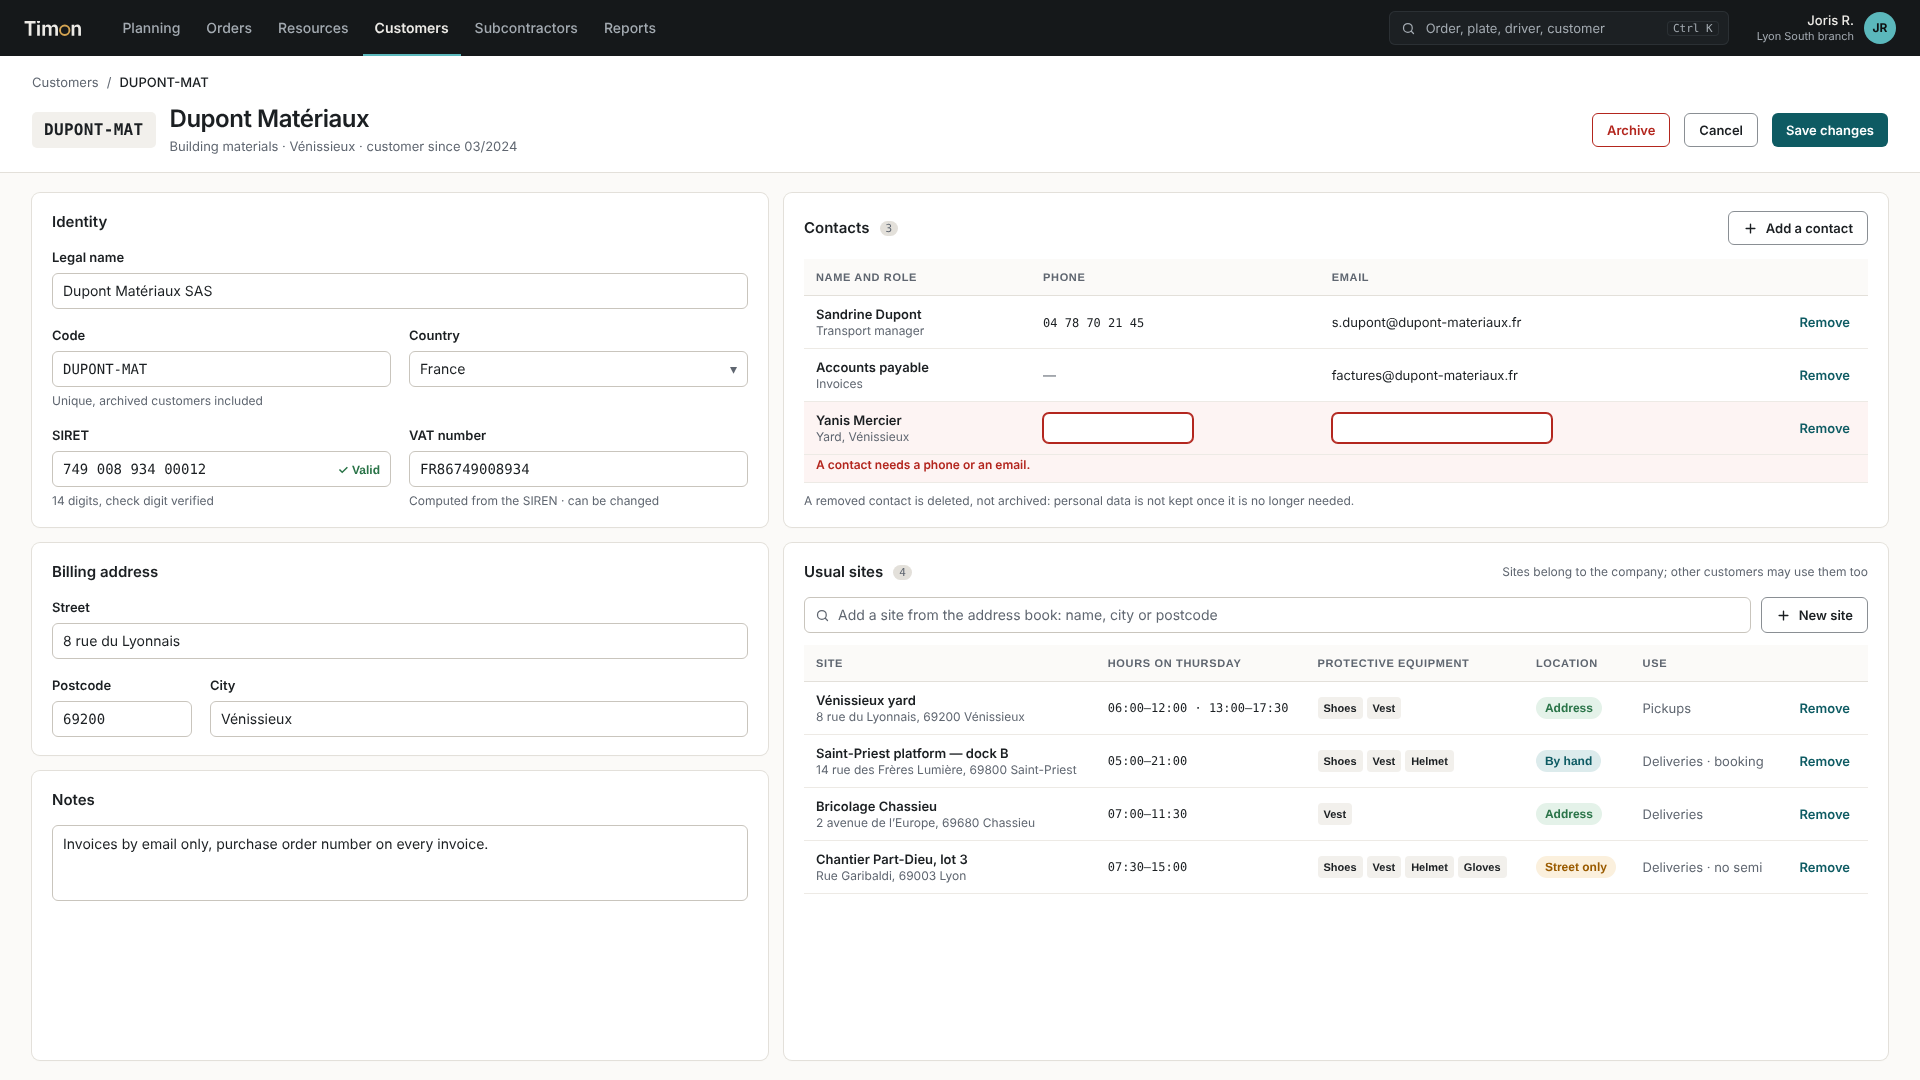
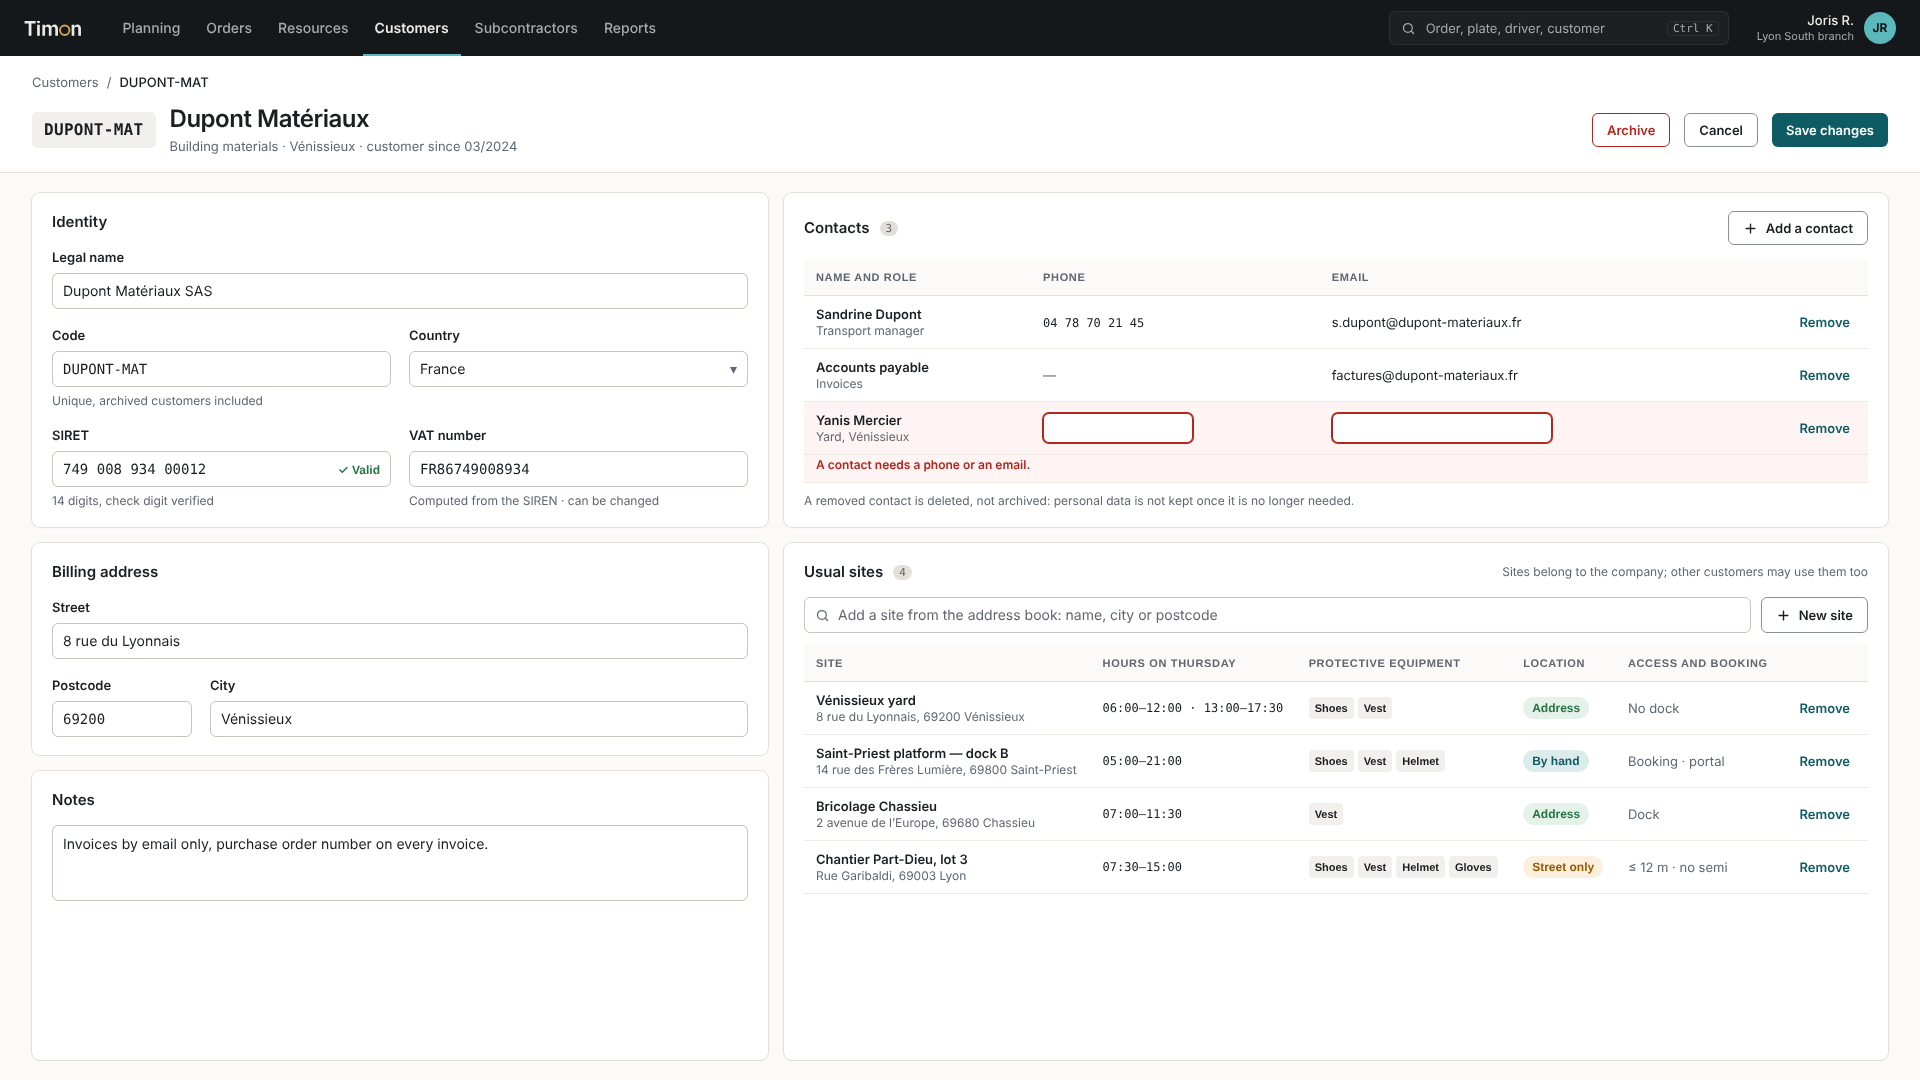
docs: SPEC-002 1.1 and customer form mockup

diff --git a/docs/specs/0002-customers-and-sites.md b/docs/specs/0002-customers-and-sites.md
@@ -2,7 +2,7 @@
 title: "Customers and sites"
 subtitle: "Functional specification"
 reference: TIMON-SPEC-002
-version: "1.0"
+version: "1.1"
 date: "October 8, 2026"
 status: "Accepted"
 ---
@@ -106,7 +106,7 @@ The screens follow the design system and are in French and English from the firs
 2. **Given** an active customer with SIRET 404 833 048 00014, **when** I create another customer with the same SIRET, **then** the form refuses it and names the existing customer.
 3. **Given** a customer coded "DUPONT-IDF", archived, **when** I create a customer coded "dupont-idf", **then** the form refuses the code.
 4. **Given** a contact with a name only, **when** I save the customer, **then** the form asks for a phone or an email.
-5. **Given** a site in France, **when** I type "1 avenue de l'Europe 78140 Vélizy" and choose the suggestion, **then** street, postcode, city and location are filled and the site is located by *address*.
+5. **Given** a site in France, **when** I type "2 avenue de l'Europe 78140 Vélizy-Villacoublay" and choose the suggestion, **then** street, postcode, city and location are filled and the site is located by *address*.
 6. **Given** a site in Germany, **when** I place the pin on the map and save, **then** the site is located *by hand* and its time zone is Europe/Berlin.
 7. **Given** the geocoding service cannot be reached, **when** I save a French site, **then** it is saved as *not located* and appears under the "not located" filter.
 8. **Given** an active site, **when** I create another site 30 metres away, **then** a warning names the first site and I can still save.
